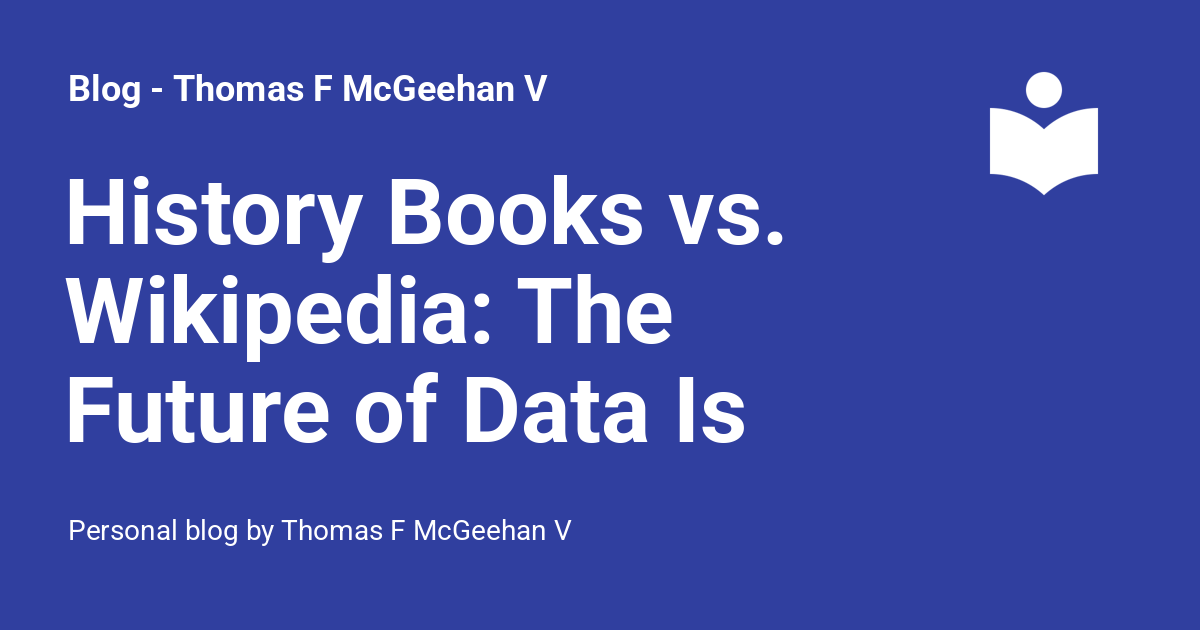
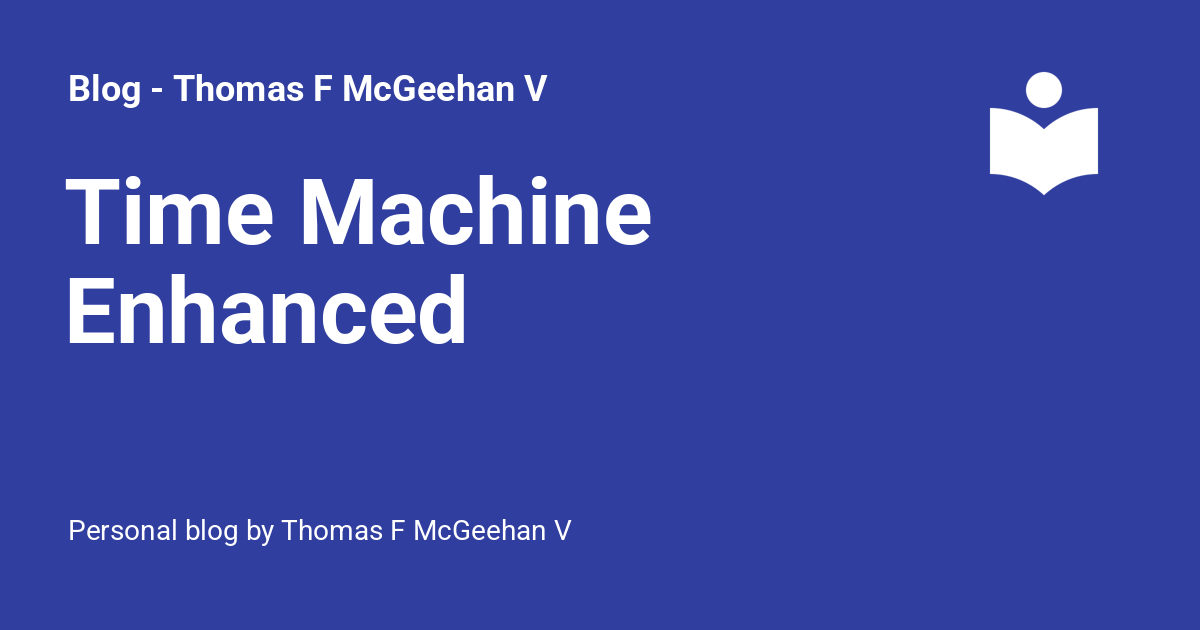
Deployed c20ab6f with MkDocs version: 1.6.1

Changed region(s): [[0.0308, 0.2714, 0.6475, 0.4222], [0.0308, 0.573, 0.6167, 0.7238], [0.0308, 0.4222, 0.5858, 0.573]]

diff --git a/blog-posts/time-machine/index.html b/blog-posts/time-machine/index.html
@@ -15,6 +15,10 @@
         <link rel="canonical" href="https://tfmv.github.io/blog/blog-posts/time-machine/">
       
       
+        <link rel="prev" href="../..">
+      
+      
+        <link rel="next" href="../flight/">
       
       
       <link rel="icon" href="../../assets/images/favicon.png">
@@ -22,7 +26,7 @@
     
     
       
-        <title>History Books vs. Wikipedia: The Future of Data Is Rewriting the Past - Blog - Thomas F McGeehan V</title>
+        <title>Time Machine Enhanced - Blog - Thomas F McGeehan V</title>
       
     
     
@@ -67,7 +71,7 @@
       
         <meta  property="og:type"  content="website" >
       
-        <meta  property="og:title"  content="History Books vs. Wikipedia: The Future of Data Is Rewriting the Past - Blog - Thomas F McGeehan V" >
+        <meta  property="og:title"  content="Time Machine Enhanced - Blog - Thomas F McGeehan V" >
       
         <meta  property="og:description"  content="Personal blog by Thomas F McGeehan V" >
       
@@ -83,7 +87,7 @@
       
         <meta  name="twitter:card"  content="summary_large_image" >
       
-        <meta  name="twitter:title"  content="History Books vs. Wikipedia: The Future of Data Is Rewriting the Past - Blog - Thomas F McGeehan V" >
+        <meta  name="twitter:title"  content="Time Machine Enhanced - Blog - Thomas F McGeehan V" >
       
         <meta  name="twitter:description"  content="Personal blog by Thomas F McGeehan V" >
       
@@ -144,7 +148,7 @@
         <div class="md-header__topic" data-md-component="header-topic">
           <span class="md-ellipsis">
             
-              History Books vs. Wikipedia: The Future of Data Is Rewriting the Past
+              Time Machine Enhanced
             
           </span>
         </div>
@@ -268,11 +272,13 @@
         
   
   
+    
+  
   
     
     
-      <li class="md-tabs__item">
-        <a href="../time-machine-enhanced.md" class="md-tabs__link">
+      <li class="md-tabs__item md-tabs__item--active">
+        <a href="./" class="md-tabs__link">
           
   
     
@@ -355,8 +361,10 @@
       
   
   
+    
   
   
+  
     
     
       
@@ -377,17 +385,20 @@
     
     
       
+        
+        
+      
       
     
     
-    <li class="md-nav__item md-nav__item--nested">
+    <li class="md-nav__item md-nav__item--active md-nav__item--section md-nav__item--nested">
       
         
         
-        <input class="md-nav__toggle md-toggle " type="checkbox" id="__nav_2" >
+        <input class="md-nav__toggle md-toggle " type="checkbox" id="__nav_2" checked>
         
           
-          <label class="md-nav__link" for="__nav_2" id="__nav_2_label" tabindex="0">
+          <label class="md-nav__link" for="__nav_2" id="__nav_2_label" tabindex="">
             
   
   <span class="md-ellipsis">
@@ -399,7 +410,7 @@
             <span class="md-nav__icon md-icon"></span>
           </label>
         
-        <nav class="md-nav" data-md-level="1" aria-labelledby="__nav_2_label" aria-expanded="false">
+        <nav class="md-nav" data-md-level="1" aria-labelledby="__nav_2_label" aria-expanded="true">
           <label class="md-nav__title" for="__nav_2">
             <span class="md-nav__icon md-icon"></span>
             Blog
@@ -410,10 +421,19 @@
                 
   
   
+    
   
   
-    <li class="md-nav__item">
-      <a href="../time-machine-enhanced.md" class="md-nav__link">
+  
+    <li class="md-nav__item md-nav__item--active">
+      
+      <input class="md-nav__toggle md-toggle" type="checkbox" id="__toc">
+      
+      
+        
+      
+      
+      <a href="./" class="md-nav__link md-nav__link--active">
         
   
   <span class="md-ellipsis">
@@ -423,6 +443,7 @@
   
 
       </a>
+      
     </li>
   
 

diff --git a/blog-posts/flight/index.html b/blog-posts/flight/index.html
@@ -15,7 +15,7 @@
         <link rel="canonical" href="https://tfmv.github.io/blog/blog-posts/flight/">
       
       
-        <link rel="prev" href="../..">
+        <link rel="prev" href="../time-machine/">
       
       
         <link rel="next" href="../arrow-ecosystem/">
@@ -278,7 +278,7 @@
     
     
       <li class="md-tabs__item md-tabs__item--active">
-        <a href="../time-machine-enhanced.md" class="md-tabs__link">
+        <a href="../time-machine/" class="md-tabs__link">
           
   
     
@@ -424,7 +424,7 @@
   
   
     <li class="md-nav__item">
-      <a href="../time-machine-enhanced.md" class="md-nav__link">
+      <a href="../time-machine/" class="md-nav__link">
         
   
   <span class="md-ellipsis">

diff --git a/index.html b/index.html
@@ -16,7 +16,7 @@
       
       
       
-        <link rel="next" href="blog-posts/flight/">
+        <link rel="next" href="blog-posts/time-machine/">
       
       
       <link rel="icon" href="assets/images/favicon.png">
@@ -276,7 +276,7 @@
     
     
       <li class="md-tabs__item">
-        <a href="blog-posts/time-machine-enhanced.md" class="md-tabs__link">
+        <a href="blog-posts/time-machine/" class="md-tabs__link">
           
   
     
@@ -427,7 +427,7 @@
   
   
     <li class="md-nav__item">
-      <a href="blog-posts/time-machine-enhanced.md" class="md-nav__link">
+      <a href="blog-posts/time-machine/" class="md-nav__link">
         
   
   <span class="md-ellipsis">

diff --git a/404.html b/404.html
@@ -239,7 +239,7 @@
     
     
       <li class="md-tabs__item">
-        <a href="/blog/blog-posts/time-machine-enhanced.md" class="md-tabs__link">
+        <a href="/blog/blog-posts/time-machine/" class="md-tabs__link">
           
   
     
@@ -380,7 +380,7 @@
   
   
     <li class="md-nav__item">
-      <a href="/blog/blog-posts/time-machine-enhanced.md" class="md-nav__link">
+      <a href="/blog/blog-posts/time-machine/" class="md-nav__link">
         
   
   <span class="md-ellipsis">

diff --git a/blog-posts/arrow-ecosystem/index.html b/blog-posts/arrow-ecosystem/index.html
@@ -278,7 +278,7 @@
     
     
       <li class="md-tabs__item md-tabs__item--active">
-        <a href="../time-machine-enhanced.md" class="md-tabs__link">
+        <a href="../time-machine/" class="md-tabs__link">
           
   
     
@@ -424,7 +424,7 @@
   
   
     <li class="md-nav__item">
-      <a href="../time-machine-enhanced.md" class="md-nav__link">
+      <a href="../time-machine/" class="md-nav__link">
         
   
   <span class="md-ellipsis">

diff --git a/blog-posts/billion/index.html b/blog-posts/billion/index.html
@@ -276,7 +276,7 @@
     
     
       <li class="md-tabs__item md-tabs__item--active">
-        <a href="../time-machine-enhanced.md" class="md-tabs__link">
+        <a href="../time-machine/" class="md-tabs__link">
           
   
     
@@ -422,7 +422,7 @@
   
   
     <li class="md-nav__item">
-      <a href="../time-machine-enhanced.md" class="md-nav__link">
+      <a href="../time-machine/" class="md-nav__link">
         
   
   <span class="md-ellipsis">

diff --git a/blog-posts/go-arrow/index.html b/blog-posts/go-arrow/index.html
@@ -278,7 +278,7 @@
     
     
       <li class="md-tabs__item md-tabs__item--active">
-        <a href="../time-machine-enhanced.md" class="md-tabs__link">
+        <a href="../time-machine/" class="md-tabs__link">
           
   
     
@@ -424,7 +424,7 @@
   
   
     <li class="md-nav__item">
-      <a href="../time-machine-enhanced.md" class="md-nav__link">
+      <a href="../time-machine/" class="md-nav__link">
         
   
   <span class="md-ellipsis">

diff --git a/blog-posts/quiver/index.html b/blog-posts/quiver/index.html
@@ -278,7 +278,7 @@
     
     
       <li class="md-tabs__item md-tabs__item--active">
-        <a href="../time-machine-enhanced.md" class="md-tabs__link">
+        <a href="../time-machine/" class="md-tabs__link">
           
   
     
@@ -424,7 +424,7 @@
   
   
     <li class="md-nav__item">
-      <a href="../time-machine-enhanced.md" class="md-nav__link">
+      <a href="../time-machine/" class="md-nav__link">
         
   
   <span class="md-ellipsis">

diff --git a/blog-posts/unilateral-bond/index.html b/blog-posts/unilateral-bond/index.html
@@ -278,7 +278,7 @@
     
     
       <li class="md-tabs__item md-tabs__item--active">
-        <a href="../time-machine-enhanced.md" class="md-tabs__link">
+        <a href="../time-machine/" class="md-tabs__link">
           
   
     
@@ -424,7 +424,7 @@
   
   
     <li class="md-nav__item">
-      <a href="../time-machine-enhanced.md" class="md-nav__link">
+      <a href="../time-machine/" class="md-nav__link">
         
   
   <span class="md-ellipsis">

diff --git a/blog-posts/arrow-ecosystem-intro/index.html b/blog-posts/arrow-ecosystem-intro/index.html
@@ -272,7 +272,7 @@
     
     
       <li class="md-tabs__item">
-        <a href="../time-machine-enhanced.md" class="md-tabs__link">
+        <a href="../time-machine/" class="md-tabs__link">
           
   
     
@@ -413,7 +413,7 @@
   
   
     <li class="md-nav__item">
-      <a href="../time-machine-enhanced.md" class="md-nav__link">
+      <a href="../time-machine/" class="md-nav__link">
         
   
   <span class="md-ellipsis">
